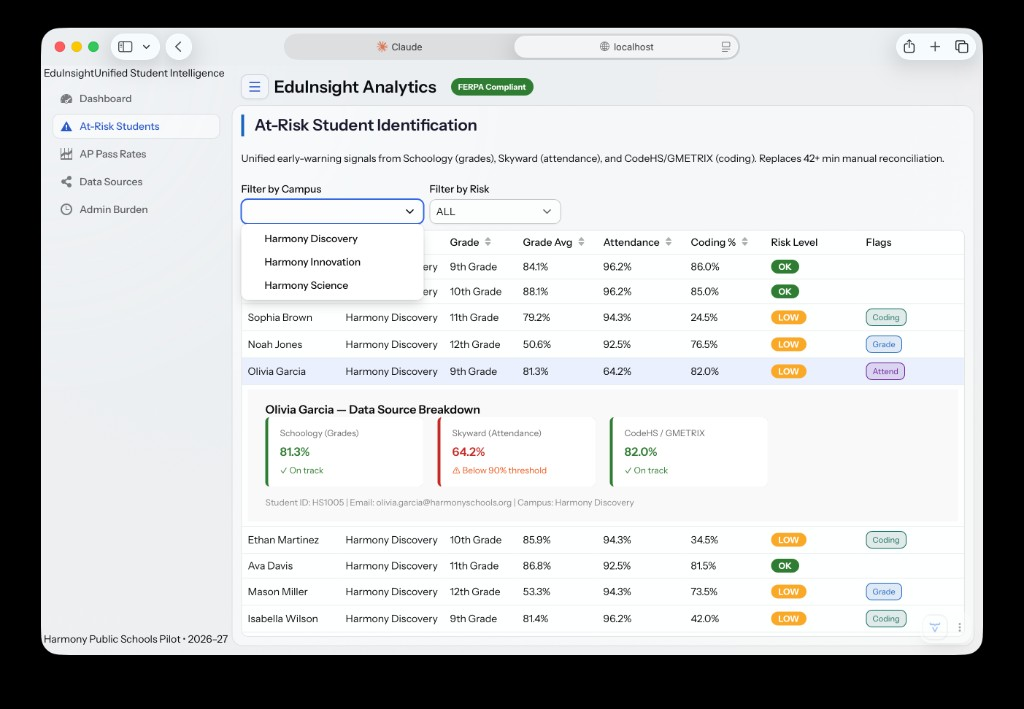
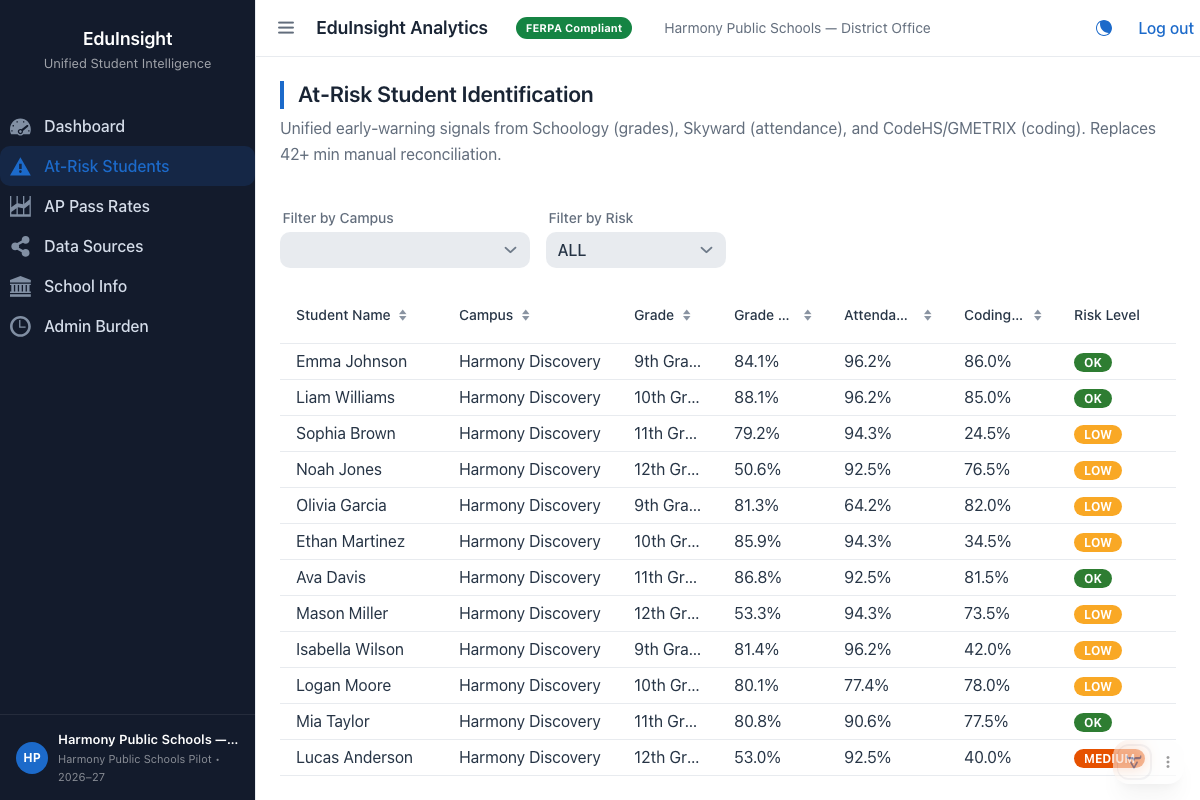
docs: refresh README and screenshots for login, theming, and new pages
Adds screenshots for the new sign-in page (showing all demo school
credentials) and the School Info directory, and re-captures the existing
Dashboard/At-Risk/AP Pass Rates/Data Sources/Admin Burden screenshots,
which were stale after the sidebar reskin, KPI trend deltas, and expanded
integrations list. Updates the README's views table, adds a "Signing In"
section documenting the demo accounts, and notes the new AI/data-analytics
integrations (Snowflake, Databricks) and adaptive light/dark theming.

diff --git a/README.md b/README.md
@@ -1,13 +1,13 @@
 # EduInsight Analytics — MVP Demo
 
-FERPA-compliant student data middleware that unifies Schoology, Skyward, CodeHS, and GMETRIX into a single teacher dashboard. Built for the Harmony Public Schools 2026–27 pilot.
+FERPA-compliant student data middleware that unifies Schoology, Skyward, Google Classroom, CodeHS, GMETRIX, Codeium, Edres, Harmony ClassLink, Snowflake, and Databricks into a single teacher dashboard. Built for the Harmony Public Schools 2026–27 pilot, and demoed as a multi-district/multi-school platform (Harmony Public Schools' three campuses plus the independent Horizon Leadership Academy).
 
 ## Stack
 
 | Layer | Technology |
 |-------|-----------|
 | Backend | Java 25, Spring Boot 4.0.6 |
-| Frontend | Vaadin 25.1.1 |
+| Frontend | Vaadin 25.1.1 (custom Lumo theme, adaptive light/dark mode) |
 | Database | H2 in-memory (demo) → Snowflake (production) |
 | Build | Gradle 9.4.1 |
 
@@ -17,22 +17,39 @@ FERPA-compliant student data middleware that unifies Schoology, Skyward, CodeHS,
 ./gradlew bootRun
 ```
 
-Then open: **<http://localhost:8080>**
+Then open: **<http://localhost:8080>** — you'll land on the sign-in page first (see [Signing In](#signing-in) below).
 
 H2 Console (inspect seeded data): **<http://localhost:8080/h2-console>**
 
 - JDBC URL: `jdbc:h2:mem:eduinsight`
 - Username: `sa` / Password: *(empty)*
 
+## Signing In
+
+Access is gated per school with a lightweight, session-based demo login (no real identity provider — this is a demo, not production auth). Signing in reveals that school's name throughout the app (sidebar, header, dashboard copy) instead of a generic label.
+
+| School | Username | Password |
+|--------|----------|----------|
+| Harmony Discovery | `harmony.discovery` | `demo123` |
+| Harmony Science | `harmony.science` | `demo123` |
+| Harmony Innovation | `harmony.innovation` | `demo123` |
+| Horizon Leadership Academy (private school) | `horizon.leadership` | `demo123` |
+| Harmony Public Schools — District Office (district-wide view) | `district.admin` | `demo123` |
+
+![Sign In](docs/screenshots/login.png)
+
 ## Dashboard Views
 
 | View | Route | Description |
 |------|-------|-------------|
-| Dashboard | `/` | Overview: student counts, risk distribution, AP rates, ingestion stats |
-| At-Risk Students | `/at-risk` | Filterable grid with early-warning flags from all 3 platforms |
+| Dashboard | `/dashboard` (alias `/`) | Overview: student counts, risk distribution, AP rates, ingestion stats, KPI trend deltas |
+| At-Risk Students | `/at-risk` | Filterable grid with early-warning flags from all connected platforms |
 | AP Pass Rates | `/ap-rates` | Exam pass rates per course and campus |
-| Data Sources | `/data-sources` | Platform integration cards, architecture diagram, status table |
+| Data Sources | `/data-sources` | Platform integration cards, AI/data-analytics layer, architecture diagram, status table |
+| School Info | `/school-info` | Directory of all pilot schools with contact details and enrollment |
 | Admin Burden | `/admin-burden` | Time-saved metrics: 42 min → 3 min per planning period |
+
+The app automatically follows your OS light/dark mode preference (a manual toggle in the header lets you override it for a demo).
 
 ## Screenshots
 
@@ -56,21 +73,22 @@ H2 Console (inspect seeded data): **<http://localhost:8080/h2-console>**
 
 ![Data Sources Integration Table](docs/screenshots/data-sources-integration-table.png)
 
+### School Information Directory
+
+![School Info](docs/screenshots/school-info.png)
+
 ### Administrative Burden Reduction
 
-![Administrative Burden Hero](docs/screenshots/admin-burden-hero.png)
-
-### Savings Projection and Outcomes
-
-![Administrative Burden Savings](docs/screenshots/admin-burden-savings.png)
+![Administrative Burden Reduction](docs/screenshots/admin-burden.png)
 
 ## Demo Data
 
-- **60 students** across 3 Harmony campuses (Discovery, Science, Innovation)
+- **60 students** across 3 Harmony campuses (Discovery, Science, Innovation). Horizon Leadership Academy has no seeded student rows — it demonstrates the login/branding flow with a fixed demo enrollment figure instead.
 - **Grade records** from Schoology (4 AP courses, 10 records/student)
 - **Attendance records** from Skyward (50+ records/student, realistic present/absent/tardy)
 - **Coding progress** from CodeHS and GMETRIX (IBC certification tracking)
 - **AP assessment scores** for 11th/12th graders (realistic 1–5 distribution)
+- All other integrations shown on the Data Sources page (Google Classroom, Codeium, Harmony ClassLink, Edres, Snowflake, Databricks) are illustrative/mock — there are no real API credentials or live connections behind them.
 
 ## At-Risk Scoring
 
